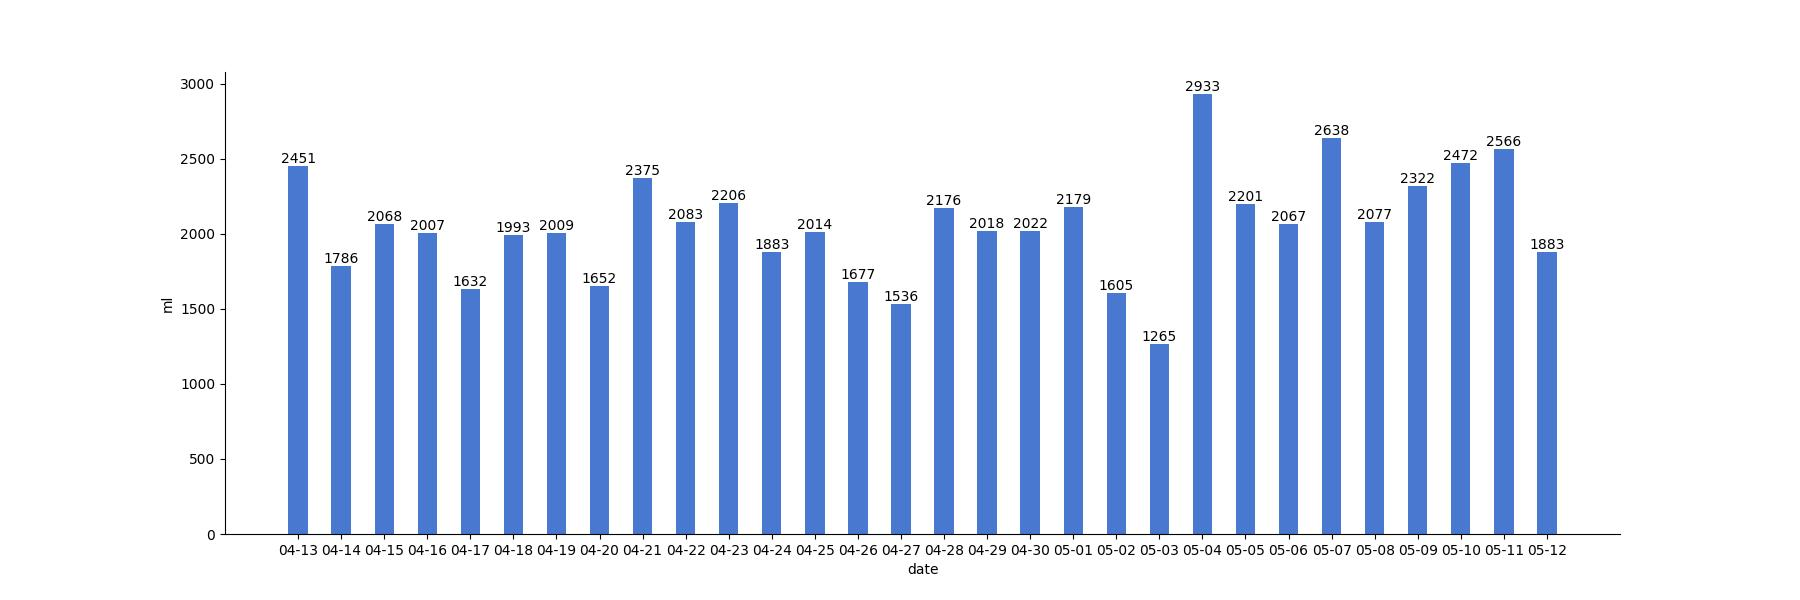
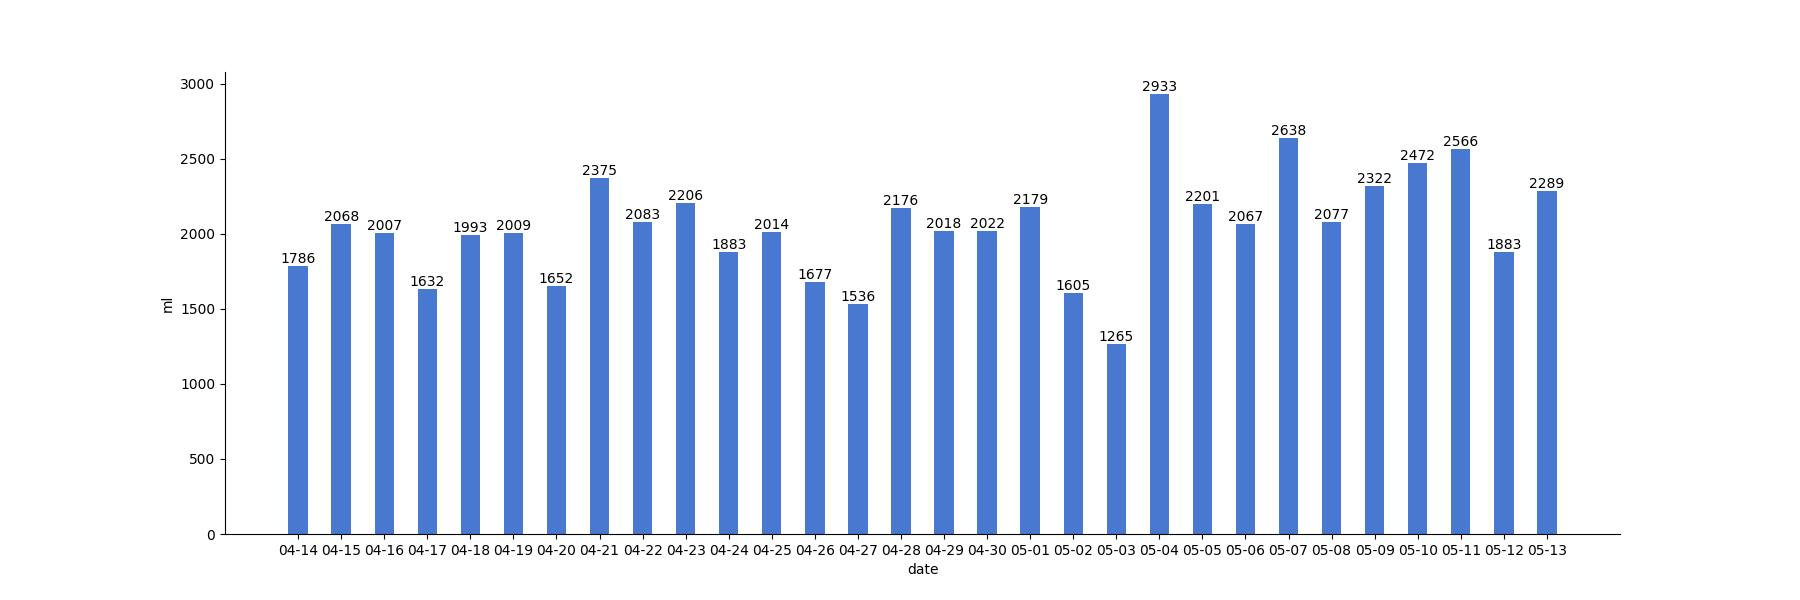
generated readme

diff --git a/README.md b/README.md
@@ -5,12 +5,12 @@
 
 | 今日总饮水量 | 每小时平均饮水量 |
 | :----: | :----: |
-| 2289 | 143 |
+| 37 | 37 |
 </div>
 
-| 日期 | 00:06:46 | 00:35:47 | 08:00:17 | 08:59:32 | 09:39:17 | 10:16:26 | 11:16:13 | 12:17:48 | 13:02:30 | 14:02:47 | 14:48:02 | 16:29:20 | 17:00:53 | 17:32:44 | 17:39:09 | 18:06:07 | 18:30:30 | 19:00:42 | 19:36:17 | 20:27:24 | 20:47:04 | 21:17:40 | 22:08:31 | 22:38:59 | 23:14:47 | 23:45:29 |
-| :----: | :----: | :----: | :----: | :----: | :----: | :----: | :----: | :----: | :----: | :----: | :----: | :----: | :----: | :----: | :----: | :----: | :----: | :----: | :----: | :----: | :----: | :----: | :----: | :----: | :----: | :----: |
-| 2022-05-13 | 32 | 20 | 98 | 62 | 52 | 77 | 65 | 200 | 66 | 55 | 92 | 60 | 77 | 103 | 131 | 131 | 67 | 79 | 72 | 250 | 124 | 97 | 117 | 63 | 54 | 45 |
+| 日期 | 00:05:50 |
+| :----: | :----: |
+| 2022-05-14 | 37 |
 
 # 近30日饮水数据
 
@@ -19,8 +19,12 @@
 
 | 总饮水量 | 日均饮水量 |
 | :----: | :----: |
-| 61796 | 2059 |
+| 61634 | 2054 |
 </div>
+
+| 日期 | all | 00:06:46 | 00:35:47 | 08:00:17 | 08:59:32 | 09:39:17 | 10:16:26 | 11:16:13 | 12:17:48 | 13:02:30 | 14:02:47 | 14:48:02 | 16:29:20 | 17:00:53 | 17:32:44 | 17:39:09 | 18:06:07 | 18:30:30 | 19:00:42 | 19:36:17 | 20:27:24 | 20:47:04 | 21:17:40 | 22:08:31 | 22:38:59 | 23:14:47 | 23:45:29 |
+| :----: | :----: | :----: | :----: | :----: | :----: | :----: | :----: | :----: | :----: | :----: | :----: | :----: | :----: | :----: | :----: | :----: | :----: | :----: | :----: | :----: | :----: | :----: | :----: | :----: | :----: | :----: | :----: |
+| 2022-05-13 | 2289 | 32 | 20 | 98 | 62 | 52 | 77 | 65 | 200 | 66 | 55 | 92 | 60 | 77 | 103 | 131 | 131 | 67 | 79 | 72 | 250 | 124 | 97 | 117 | 63 | 54 | 45 |
 
 | 日期 | all | 00:21:38 | 07:57:32 | 08:10:18 | 08:53:50 | 09:17:55 | 09:56:02 | 10:16:50 | 10:49:54 | 11:35:55 | 12:12:52 | 12:42:48 | 13:04:41 | 13:40:49 | 14:36:16 | 15:49:12 | 16:30:43 | 17:16:05 | 17:46:27 | 19:16:22 | 19:46:22 | 20:46:43 | 21:16:22 | 21:47:28 | 22:24:00 | 22:56:19 | 23:38:27 |
 | :----: | :----: | :----: | :----: | :----: | :----: | :----: | :----: | :----: | :----: | :----: | :----: | :----: | :----: | :----: | :----: | :----: | :----: | :----: | :----: | :----: | :----: | :----: | :----: | :----: | :----: | :----: | :----: |
@@ -141,8 +145,4 @@
 | 日期 | all | 00:07:49 | 00:44:54 | 01:07:08 | 01:31:41 | 06:39:43 | 10:30:45 | 11:00:40 | 11:32:12 | 12:30:38 | 12:51:16 | 13:22:50 | 13:54:59 | 14:25:41 | 14:55:30 | 15:23:50 | 15:53:55 | 16:23:27 | 16:53:33 | 17:39:26 | 18:11:23 | 19:11:11 | 19:41:43 | 20:12:05 | 21:31:31 | 22:30:10 | 22:49:12 | 23:25:35 | 23:45:32 |
 | :----: | :----: | :----: | :----: | :----: | :----: | :----: | :----: | :----: | :----: | :----: | :----: | :----: | :----: | :----: | :----: | :----: | :----: | :----: | :----: | :----: | :----: | :----: | :----: | :----: | :----: | :----: | :----: | :----: | :----: |
 | 2022-04-13 | 2451 | 60 | 49 | 21 | 94 | 55 | 16 | 99 | 120 | 60 | 60 | 102 | 65 | 98 | 123 | 60 | 112 | 60 | 142 | 90 | 96 | 350 | 48 | 93 | 92 | 82 | 75 | 73 | 56 |
-
-| 日期 | all | 00:09:27 | 00:20:03 | 05:48:21 | 07:59:51 | 08:37:43 | 08:58:54 | 09:29:26 | 10:15:40 | 11:20:20 | 11:49:37 | 12:18:31 | 13:29:28 | 13:52:25 | 14:24:23 | 14:55:27 | 15:24:30 | 16:21:02 | 16:57:33 | 17:57:32 | 18:47:15 | 19:14:31 | 19:33:02 | 19:59:51 | 20:16:41 | 20:33:06 | 21:03:40 | 21:34:03 | 22:14:27 | 22:46:14 | 23:20:37 | 23:45:19 |
-| :----: | :----: | :----: | :----: | :----: | :----: | :----: | :----: | :----: | :----: | :----: | :----: | :----: | :----: | :----: | :----: | :----: | :----: | :----: | :----: | :----: | :----: | :----: | :----: | :----: | :----: | :----: | :----: | :----: | :----: | :----: | :----: | :----: |
-| 2022-04-12 | 2204 | 62 | 39 | 22 | 113 | 71 | 78 | 66 | 37 | 81 | 90 | 200 | 98 | 43 | 60 | 37 | 25 | 130 | 64 | 127 | 30 | 48 | 81 | 101 | 68 | 38 | 60 | 87 | 76 | 33 | 79 | 60 |
 
